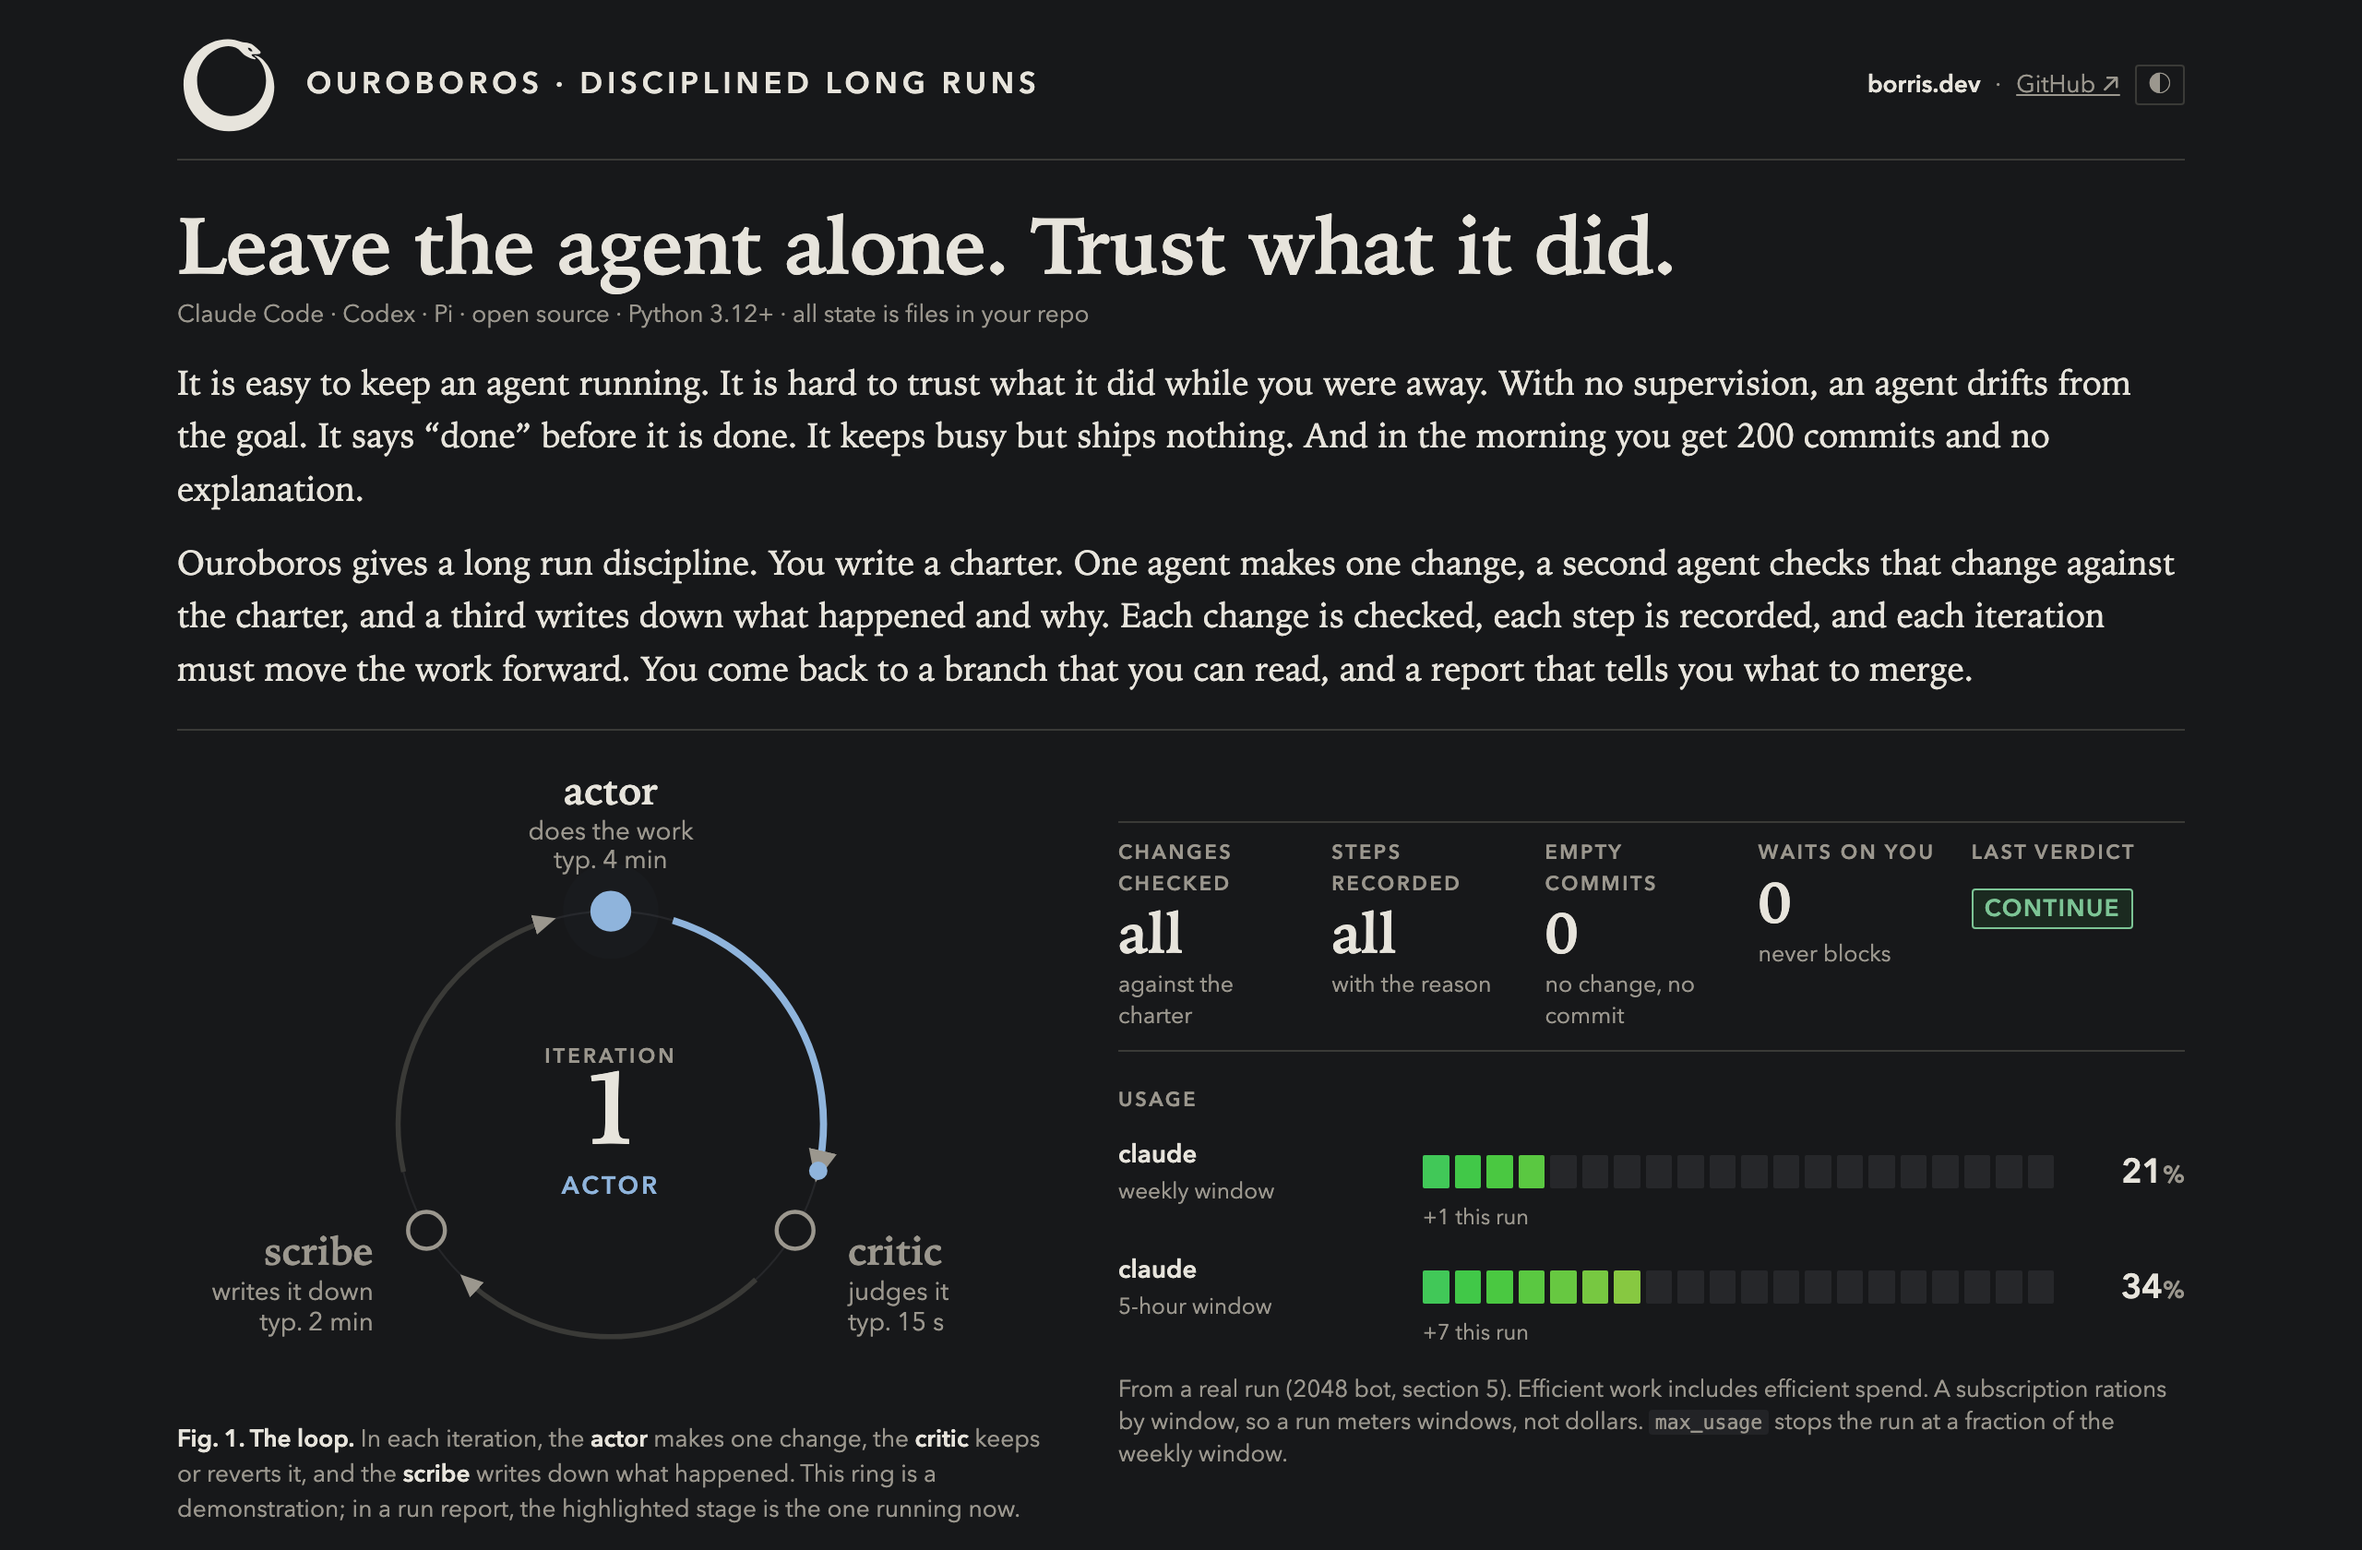
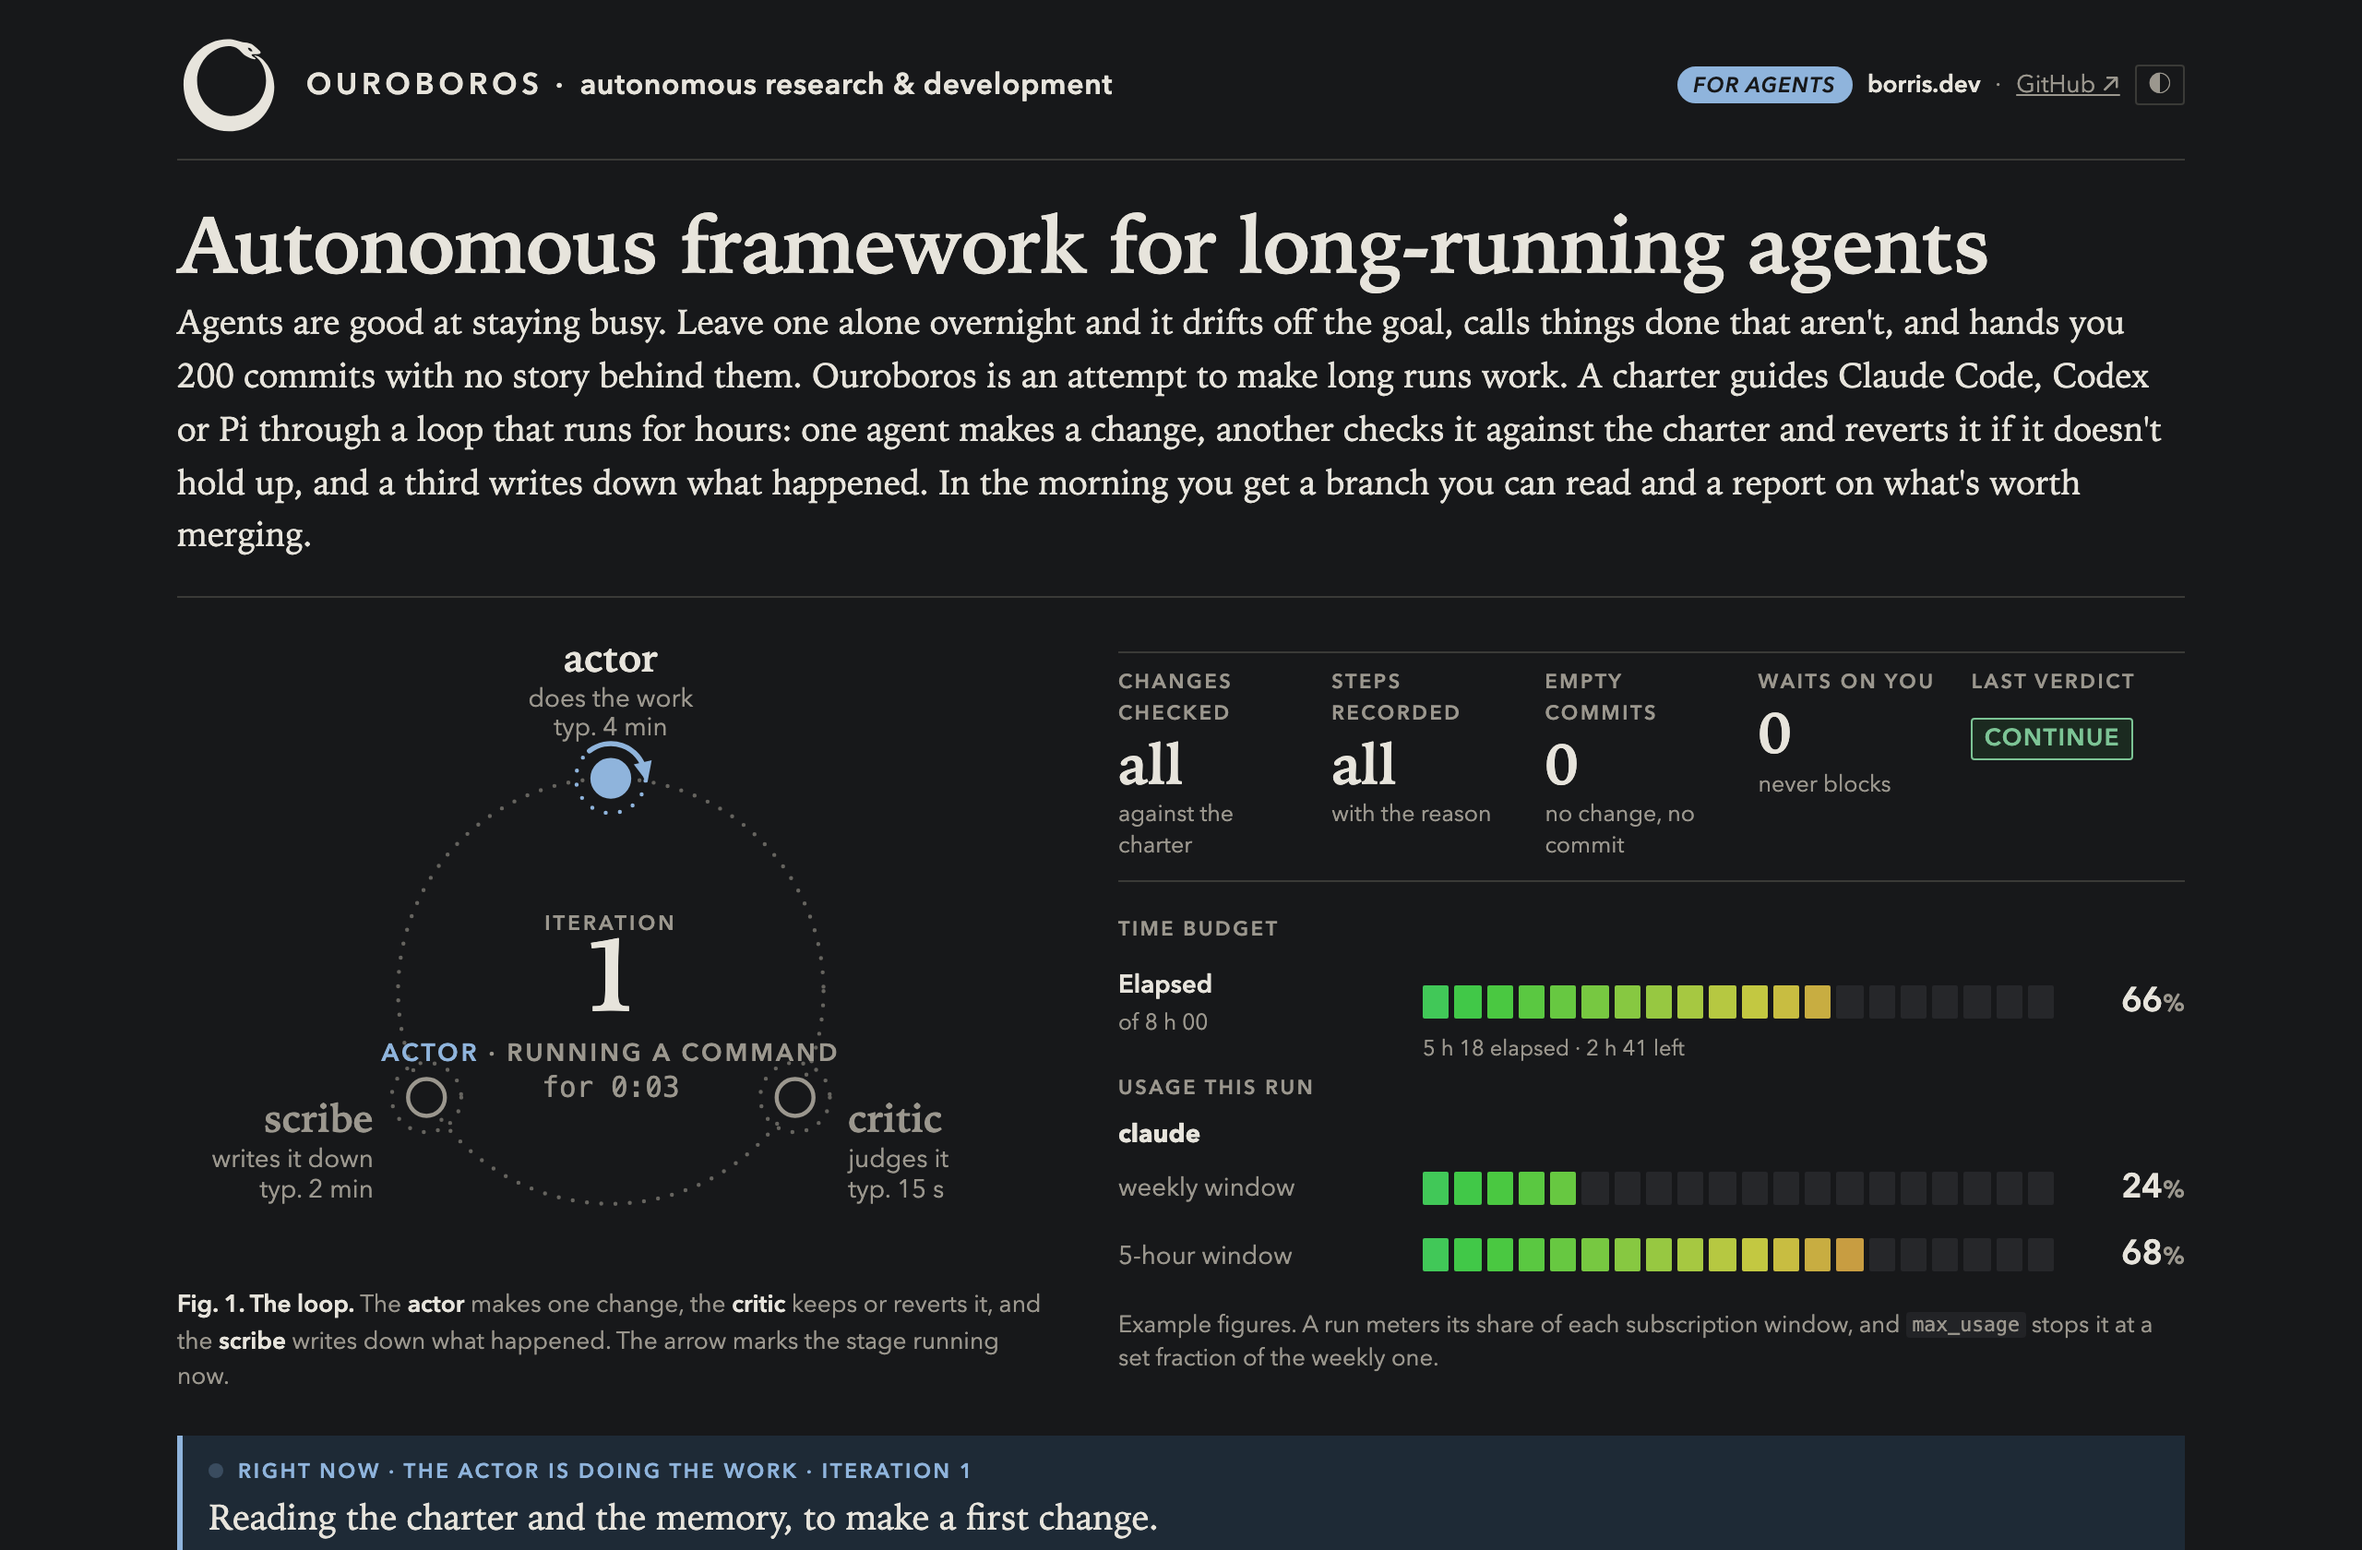
README: new tagline and intro, fresh borris.dev screenshots

diff --git a/README.md b/README.md
@@ -7,7 +7,7 @@
 
 <h1 align="center">Ouroboros</h1>
 
-<p align="center"><b>Leave the agent alone. Trust what it did.</b></p>
+<p align="center"><b>Autonomous framework for long-running agents</b></p>
 
 <p align="center">
   <a href="https://borris.dev"><img alt="Site: borris.dev" src="https://img.shields.io/badge/site-borris.dev-111111"></a>
@@ -18,25 +18,20 @@
   <a href="LICENSE"><img alt="License: MIT" src="https://img.shields.io/badge/license-MIT-green"></a>
 </p>
 
-<p align="center">Claude Code · Codex · Pi · open source · all state is files in your repo</p>
-
 ---
 
-It is easy to keep an agent running. It is hard to trust what it did while you
-were away. With no supervision, an agent drifts from the goal. It says "done"
-before it is done. It keeps busy but ships nothing. And in the morning you get
-200 commits and no explanation.
-
-Ouroboros gives a long run discipline. You write a charter. One agent makes one
-change, a second agent checks that change against the charter, and a third
-writes down what happened and why. Each change is checked, each step is
-recorded, and each iteration must move the work forward. You come back to a
-branch that you can read, and a report that tells you what to merge.
+Agents are good at staying busy. Leave one alone overnight and it drifts off
+the goal, calls things done that aren't, and hands you 200 commits with no
+story behind them. Ouroboros is an attempt to make long runs work. A charter
+guides Claude Code, Codex or Pi through a loop that runs for hours: one agent
+makes a change, another checks it against the charter and reverts it if it
+doesn't hold up, and a third writes down what happened. In the morning you get
+a branch you can read and a report on what's worth merging.
 
 <a href="https://borris.dev">
   <picture>
     <source media="(prefers-color-scheme: dark)" srcset="docs/site-dark.png">
-    <img src="docs/site-light.png" alt="The borris.dev page in the style of an Ouroboros run report: the loop of actor, critic and scribe, the key figures, and usage from a real run">
+    <img src="docs/site-light.png" alt="The borris.dev page in the style of an Ouroboros run report: the loop of actor, critic and scribe, the key figures, the time budget and usage windows">
   </picture>
 </a>
 
